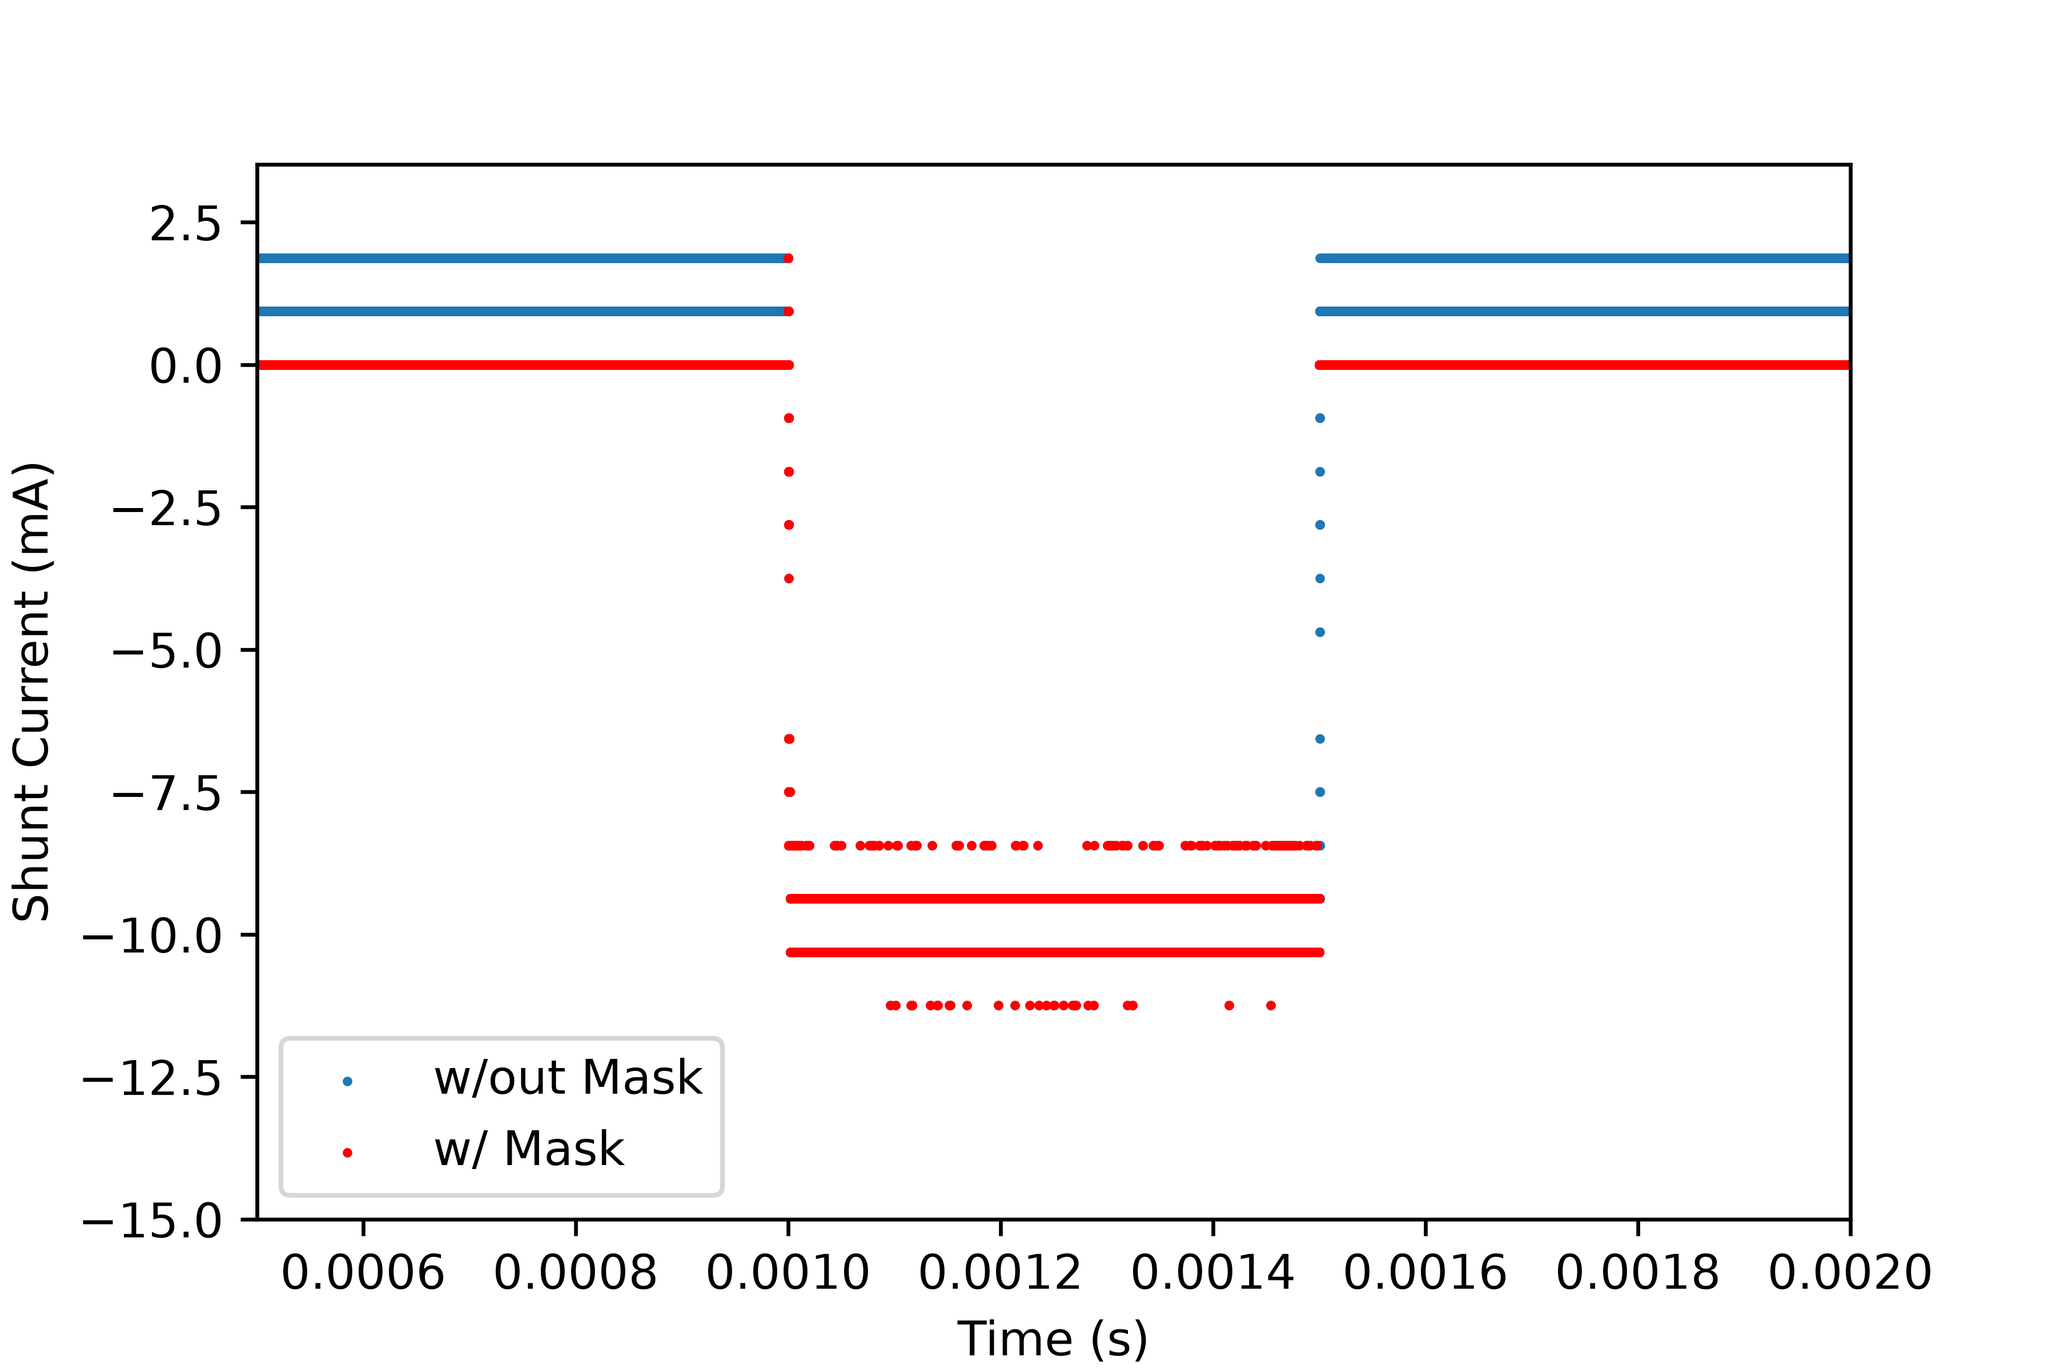
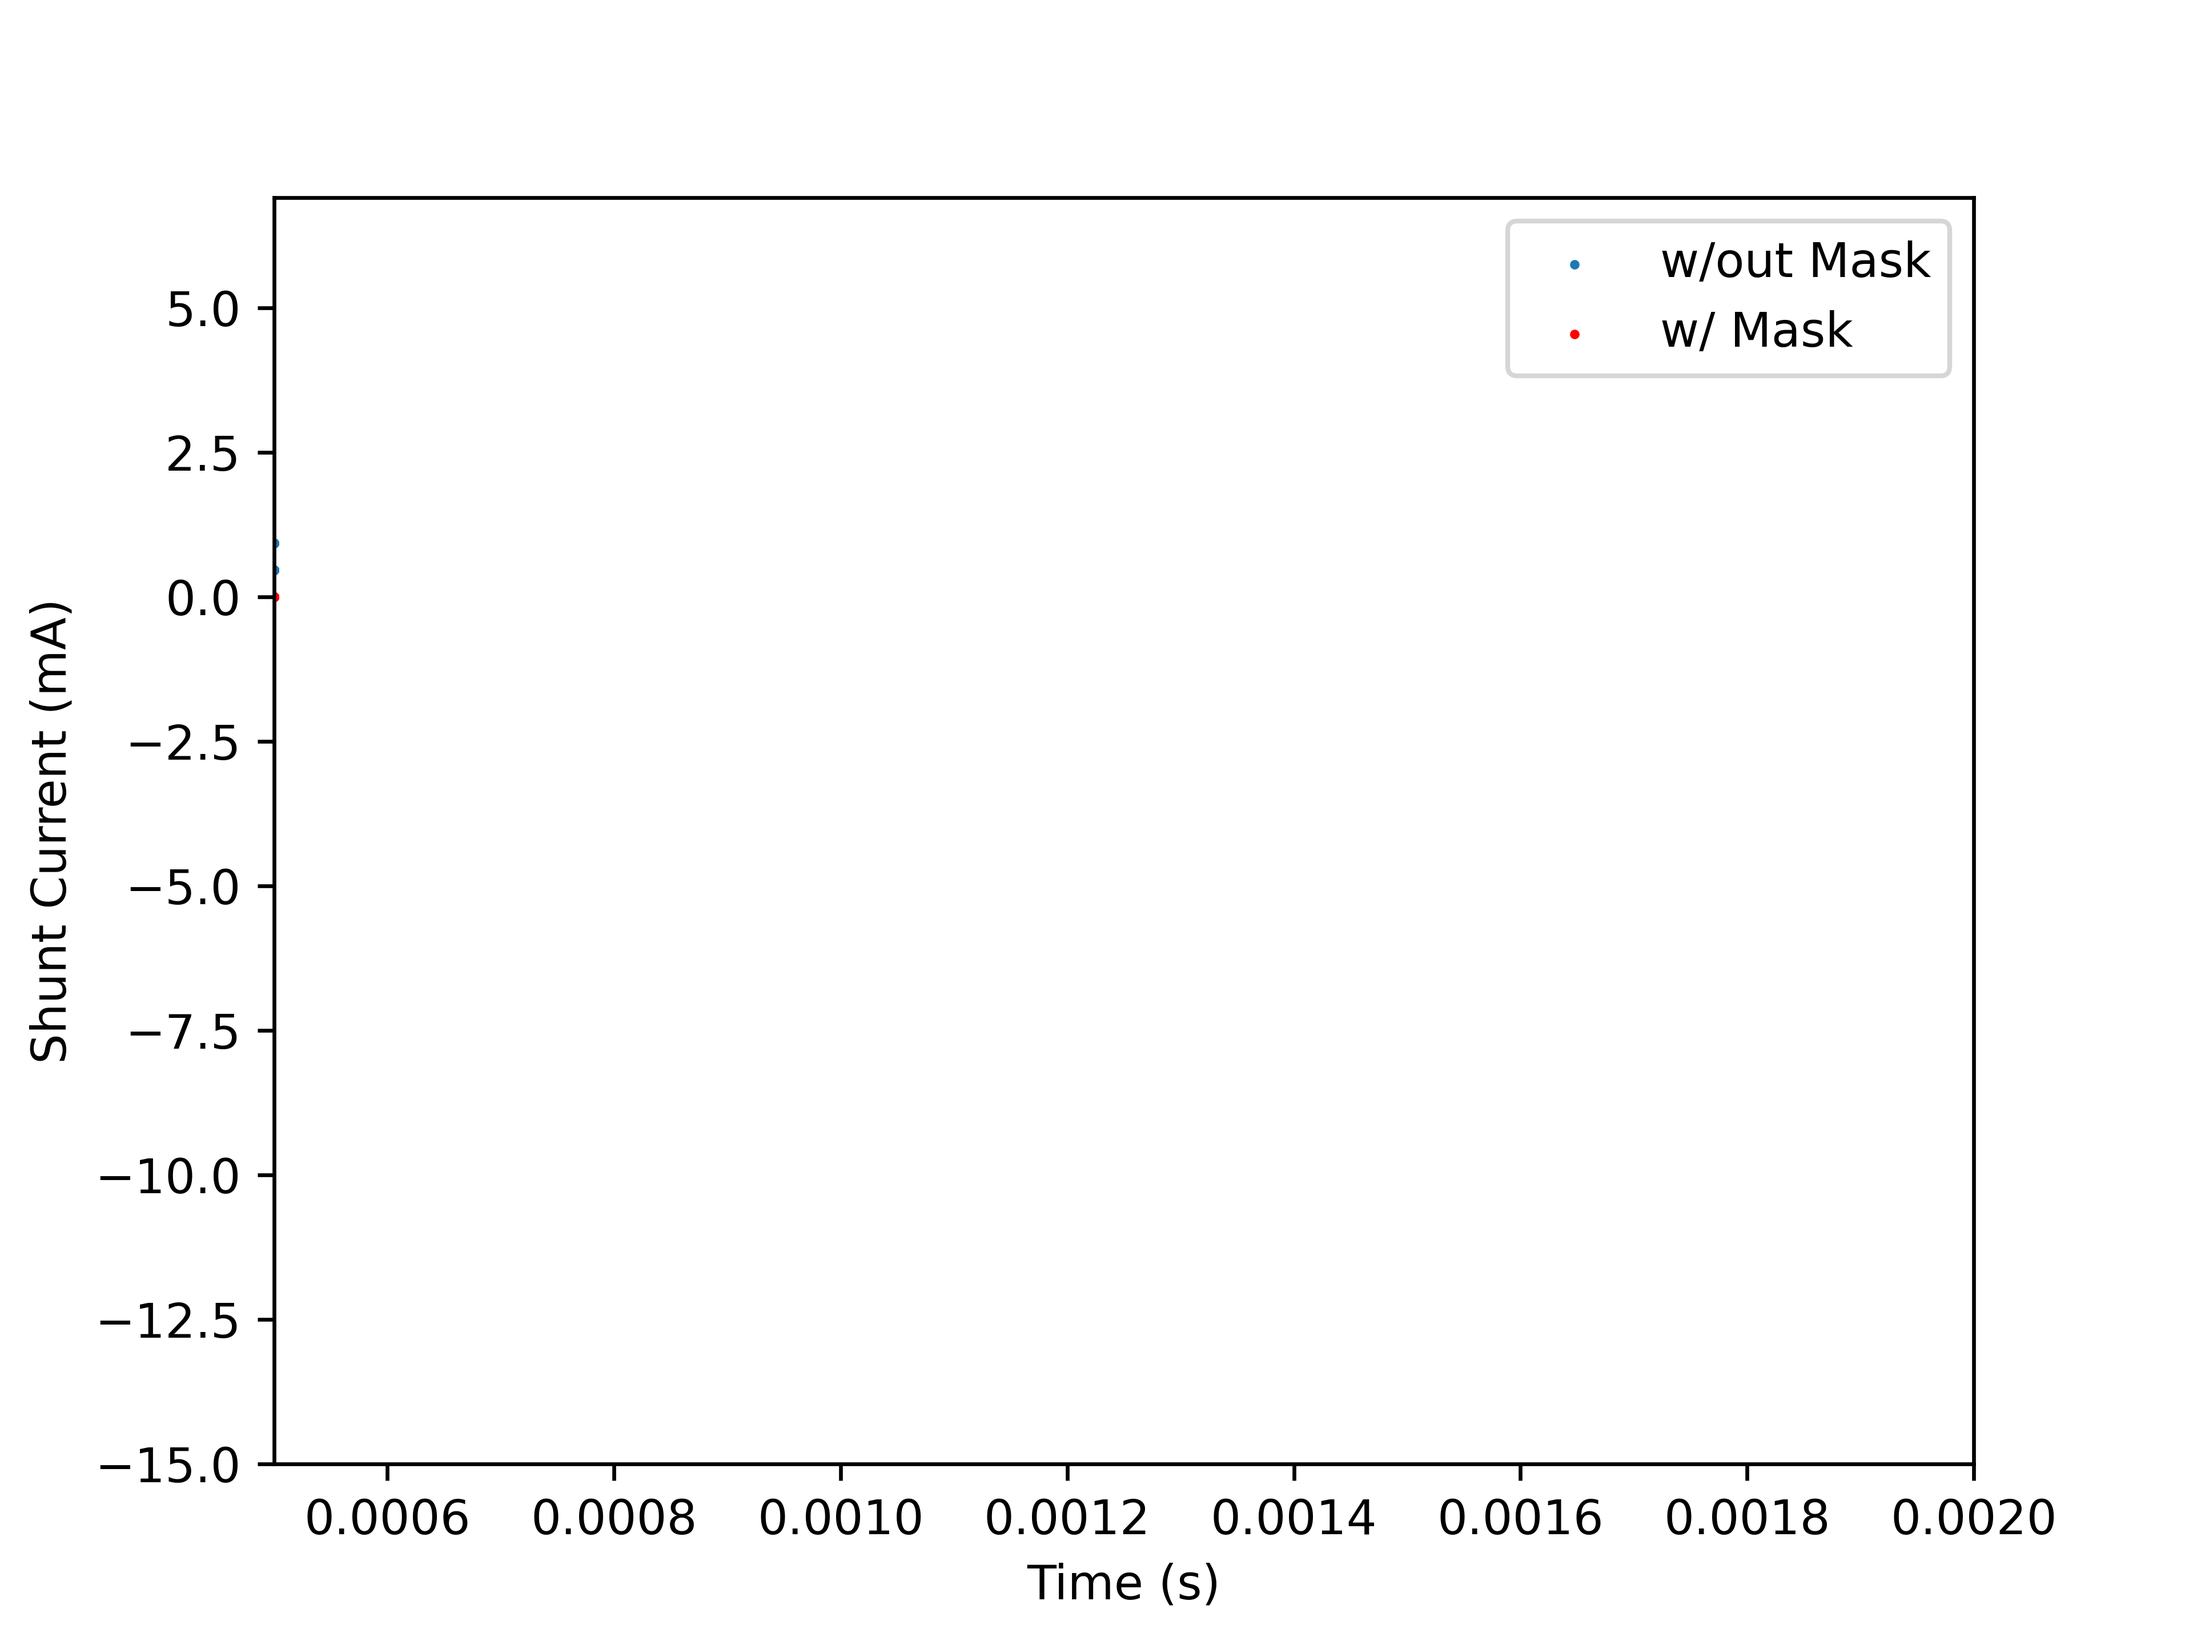
I think I have the batch waveform analysis script complete! Populates sample_pulsed in a decent manner. Need to touch up ise + fe calculation script!

diff --git a/Electrical/batch_analyze_waveform.py b/Electrical/batch_analyze_waveform.py
@@ -4,6 +4,7 @@ from pathlib import Path
 sys.path.insert(0, str(Path(__file__).resolve().parent.parent / "SharedScripts"))
 from filename_parse import filename_parse
 import pandas as pd
+from datetime import date
 
 def batch_analyze_waveform(folder, collection_date):
     """For each waveform CSV in folder: filename metadata + computed scalars.
@@ -31,9 +32,70 @@ def batch_analyze_waveform(folder, collection_date):
         rows.append(row)
     return rows
 
+def is_iso_date(entry):
+    try:
+        date.fromisoformat(str(entry))
+        return True
+    except ValueError:
+        return False
+
+def store_waveform_to_masterfile(rows, masterfile_path):
+    """Merge rows into an existence masterfile at masterfile_path"""
+    # turn filepath in path object
+    master_path = Path(masterfile_path)
+
+    # Make sure the masterfile exists
+    if not master_path.exists():
+        raise FileNotFoundError(f"Masterfile path not found: {masterfile_path}")
+
+    # Get construct data frame from csv
+    master_df = pd.read_csv(masterfile_path)
+
+    # Make sure it has all required columns
+    required = ["collection_date", "freq_Hz", "duty_%", "set_current_mA", "instance_#"]
+    missing = [col for col in required if col not in master_df.columns]
+    if missing:
+        raise KeyError(f"Masterfile missing required columns: {missing}")
+
+    # Make sure dates in master_df are properly formatted
+    master_dates = master_df['collection_date']
+    bad_master_dates = [entry for entry in master_dates if not is_iso_date(entry)]
+    if bad_master_dates:
+        raise ValueError(f"Non-ISO dates in masterfile: {bad_master_dates}")
+
+    # turn rows from batch_analyze_waveform into dataframe
+    waveform_df = pd.DataFrame(rows)
+
+    # Make sure dates in waveform_df are properly formatted
+    waveform_dates = waveform_df['collection_date']
+    bad_waveform_dates = [entry for entry in waveform_dates if not is_iso_date(entry)]
+    if bad_waveform_dates:
+        raise ValueError(f"Non-ISO dates in waveform data: {bad_waveform_dates}")
+
+    # Merge dataframe together
+    master_df = master_df.merge(waveform_df,
+                      on=["collection_date", "freq_Hz", "duty_%", "set_current_mA","instance_#"],
+                      how="outer",
+                      suffixes=("", "_new"))
+
+    # Fill in the na's
+    computed_cols = ["source_file", "time_monotonic", "measured_duty_%",
+                 "peak_current_mA", "peak_current_std_mA", "average_current_mA"]
+
+    for col in computed_cols:
+        new_col = col + "_new"
+        if new_col in master_df.columns:
+            master_df[col] = master_df[new_col].fillna(master_df[col])
+            master_df = master_df.drop(columns=new_col)
+
+    return master_df
+
 if __name__ == "__main__":          # ← the guard, bottom of the file
-    rows = batch_analyze_waveform("./30Mar2026", "2026-03-30")   # your real folder path
-    df = pd.DataFrame(rows)          # one construction call
-    print(df)                        # the full table
+    directory = "./09_28"
+    collection_date = "2026-09-28"
+    masterfile = "../MasterDataFiles/sample_pulsed.csv"
+    rows = batch_analyze_waveform(directory, collection_date)   # your real folder path
+    df = store_waveform_to_masterfile(rows, masterfile)
+    print(df)
     print(df.dtypes)
-    # casualty report goes here
+    df.to_csv(masterfile, index=False)

diff --git a/Electrical/explore_trace.py b/Electrical/explore_trace.py
@@ -4,7 +4,7 @@ import numpy as np
 import matplotlib.pyplot as plt
 
 # Import giant .csv file -> 1,000,000 points!
-df = pd.read_csv("30Mar2026/500Hz_25%_3mA.csv", header=0)
+df = pd.read_csv("09_17/7khz_2.5%_6.6ma.csv", header=0)
 print(f"Shape of imported data: {df.shape}")
 print(f"Columns of .csv file: {df.columns}")
 print(f"Data types in dataframe: {df.dtypes}")
@@ -30,7 +30,7 @@ print(f"Actual duty cycle: {100*actual_duty} %")
 
 fig, ax = plt.subplots()
 ax.plot(time_vals, CH3_vals, label="CH(3) Signal")
-ax.plot(time_vals, CH1_vals, label="CH(1) Signal")
+# ax.plot(time_vals, CH1_vals, label="CH(1) Signal")
 # ax.scatter(time_vals, CH3_vals, s=1)
 ax.scatter(time_vals, on_mask*np.ones_like(CH3_vals), s=1, color='r', label="On Mask")
 ax.set_xlabel("Time (s)")
@@ -55,7 +55,6 @@ ax.plot(time_vals, I_shunt, label="w/out Mask")
 ax.plot(time_vals, I_shunt_masked, color='r', label="w/ Mask")
 ax.set_xlabel("Time (s)")
 ax.set_ylabel("Shunt Current (mA)")
-ax.set_ylim(bottom=-15)
 plt.legend()
 plt.savefig("current_explore.png",dpi=600)
 
